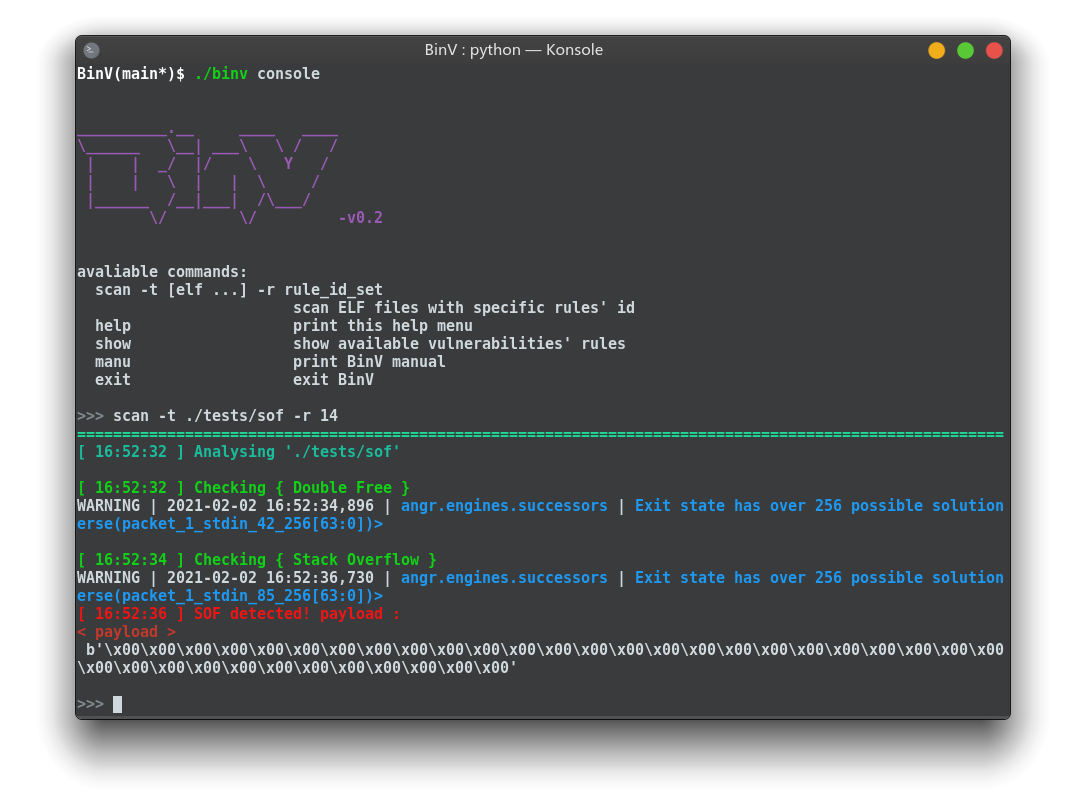
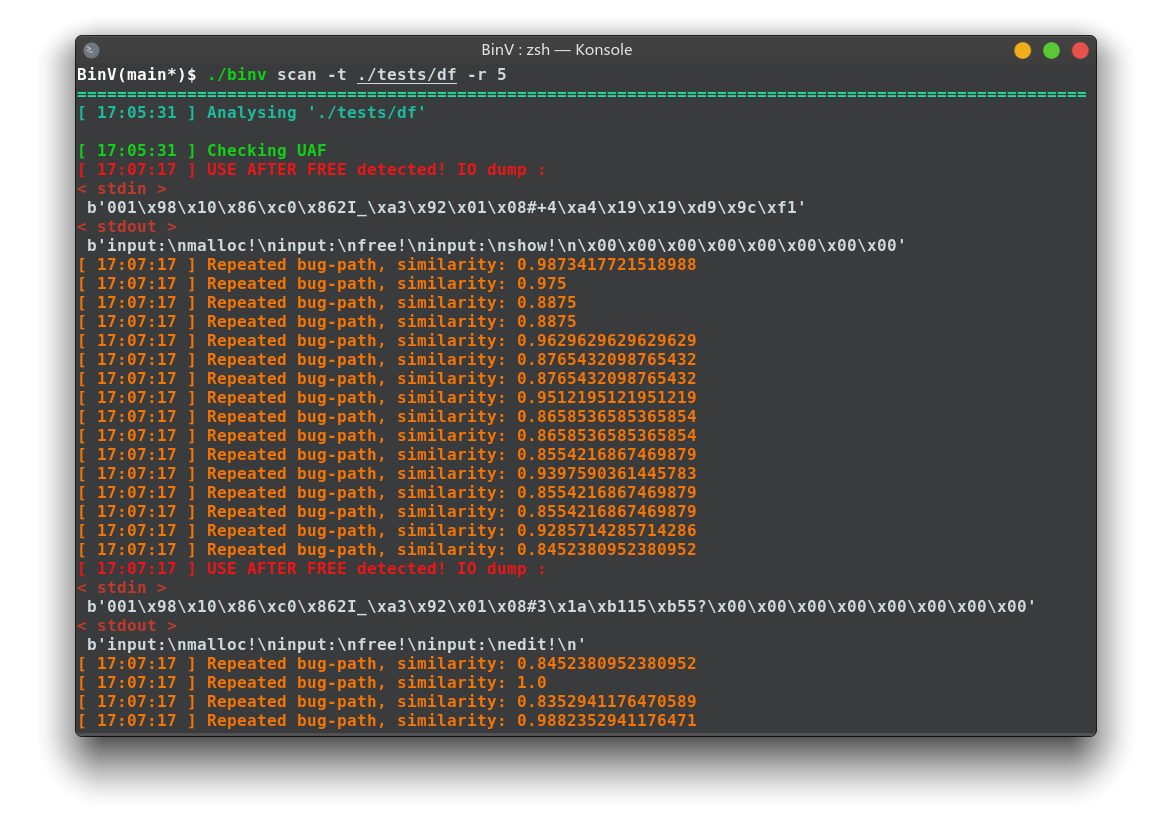
add prune op for UAF

Changed region(s): [[0.0608, 0.0311, 0.942, 0.9006]]

diff --git a/core/vul_rules/use_after_free.py b/core/vul_rules/use_after_free.py
@@ -66,10 +66,12 @@ def checkUAF(cur_state: angr.SimState) :
             if (act.type == 'mem') \
                and (act.action == 'read' or act.action == 'write') :
                 for free_addr in cur_state.globals["FREE_LIST"] :
-                    if free_addr == act.actual_addrs[0] :
-                        log("USE AFTER FREE detected! IO dump :", RED)
-                        print("{}< stdin >{}\n".format(DRED, RST), cur_state.posix.dumps(0))
-                        print("{}< stdout >{}\n".format(DRED, RST), cur_state.posix.dumps(1))
+                    if free_addr == act.actual_addrs[0] \
+                       and not checkPathSimilarity([bbl_addr for bbl_addr in cur_state.history.bbl_addrs], paths_with_bug) :
+                            log("USE AFTER FREE detected! IO dump :", RED)
+                            print("{}< stdin >{}\n".format(DRED, RST), cur_state.posix.dumps(0))
+                            print("{}< stdout >{}\n".format(DRED, RST), cur_state.posix.dumps(1))
+                            paths_with_bug.append([bbl_addr for bbl_addr in cur_state.history.bbl_addrs])
 
 
 

diff --git a/core/prune_algorithms.py b/core/prune_algorithms.py
@@ -4,7 +4,7 @@ def checkPathSimilarity(cur_path, paths_set) -> bool :
     for path in paths_set :
         if isSubPath(cur_path.copy(), path.copy()) :
             return True
-        elif getInterProp(cur_path.copy(), path.copy()) > 0.8 :
+        elif getInterProp(cur_path.copy(), path.copy()) > 0.85 :
             return True
     return False
 
